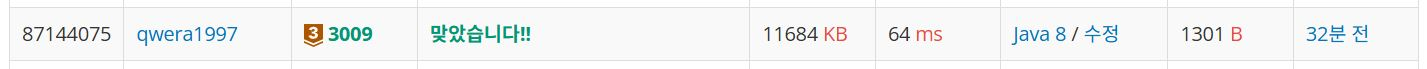
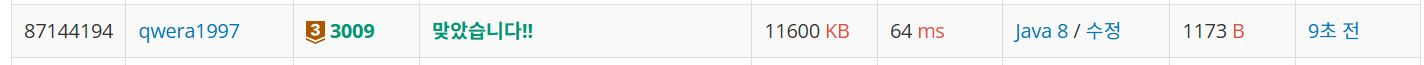
BOJ 3009 네 번째 점

diff --git a/2024-12/src/day_04/BOJ_3009/Main.java b/2024-12/src/day_04/BOJ_3009/Main.java
@@ -10,26 +10,26 @@ public class Main {
         StringBuilder sb = new StringBuilder();
         StringTokenizer st;
 
-        List<Integer> xpos = new ArrayList<>();
-        List<Integer> ypos = new ArrayList<>();
+        int[] xpos = new int[3];
+        int[] ypos = new int[3];
 
         st = new StringTokenizer(br.readLine());
-        xpos.add(Integer.parseInt(st.nextToken()));
-        ypos.add(Integer.parseInt(st.nextToken()));
+        xpos[0] = Integer.parseInt(st.nextToken());
+        ypos[0] = Integer.parseInt(st.nextToken());
 
         st = new StringTokenizer(br.readLine());
-        xpos.add(Integer.parseInt(st.nextToken()));
-        ypos.add(Integer.parseInt(st.nextToken()));
+        xpos[1] = Integer.parseInt(st.nextToken());
+        ypos[1] = Integer.parseInt(st.nextToken());
 
         st = new StringTokenizer(br.readLine());
-        xpos.add(Integer.parseInt(st.nextToken()));
-        ypos.add(Integer.parseInt(st.nextToken()));
+        xpos[2] = Integer.parseInt(st.nextToken());
+        ypos[2] = Integer.parseInt(st.nextToken());
 
-        xpos.sort(Comparator.naturalOrder());
-        ypos.sort(Comparator.naturalOrder());
+        Arrays.sort(xpos);
+        Arrays.sort(ypos);
 
-        int x4 = Objects.equals(xpos.get(1), xpos.get(0)) ? xpos.get(2) : xpos.get(0);
-        int y4 = Objects.equals(ypos.get(1), ypos.get(0)) ? ypos.get(2) : ypos.get(0);
+        int x4 = xpos[1] == xpos[0] ? xpos[2] : xpos[0];
+        int y4 = ypos[1] == ypos[0] ? ypos[2] : ypos[0];
 
         sb.append(x4).append(" ").append(y4);
 
